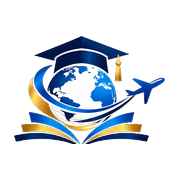
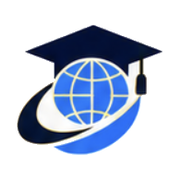
feat: refine responsive brand navbar

diff --git a/src/components/site/Navbar.tsx b/src/components/site/Navbar.tsx
@@ -64,7 +64,7 @@ export function LanguageSelector({ className }: { className?: string }) {
       <button
         ref={triggerRef}
         type="button"
-        className="inline-flex min-h-11 items-center justify-center gap-1.5 rounded-full border border-white/20 bg-white/10 px-3 text-xs font-semibold text-white backdrop-blur-xs transition-colors hover:bg-white/20 focus-visible:outline-2 focus-visible:outline-offset-2 focus-visible:outline-white"
+        className="inline-flex min-h-11 items-center justify-center gap-1.5 rounded-md border border-border bg-white px-3 text-xs font-semibold text-foreground transition-colors hover:bg-muted focus-visible:outline-2 focus-visible:outline-offset-2 focus-visible:outline-primary"
         aria-label={selectorLabels.trigger}
         aria-expanded={expanded}
         aria-controls={`${id}-options`}
@@ -87,7 +87,7 @@ export function LanguageSelector({ className }: { className?: string }) {
           id={`${id}-options`}
           role="group"
           aria-label={selectorLabels.group}
-          className="absolute right-0 top-full z-[70] mt-2 grid w-max min-w-36 max-w-[calc(100vw-1rem)] gap-1 rounded-xl border border-white/15 bg-navy p-1.5 text-sm shadow-xl"
+          className="absolute right-0 top-full z-[70] mt-2 grid w-max min-w-36 max-w-[calc(100vw-1rem)] gap-1 rounded-xl border border-border bg-white p-1.5 text-sm shadow-xl"
         >
           {languages.map(({ locale: target, name }, index) => (
             <button
@@ -114,8 +114,8 @@ export function LanguageSelector({ className }: { className?: string }) {
                 }
               }}
               className={cn(
-                "flex min-h-11 items-center rounded-lg px-3 text-left text-white transition-colors hover:bg-white/10 focus-visible:bg-white/10 focus-visible:outline-none",
-                locale === target && "bg-white/15 font-semibold",
+                "flex min-h-11 items-center rounded-lg px-3 text-left text-foreground transition-colors hover:bg-muted focus-visible:bg-muted focus-visible:outline-none",
+                locale === target && "bg-primary/10 font-semibold text-primary",
               )}
               aria-current={locale === target ? "true" : undefined}
             >
@@ -128,31 +128,84 @@ export function LanguageSelector({ className }: { className?: string }) {
   );
 }
 
-export function Logo({ compact = false }: { compact?: boolean }) {
+/** Only allow the services tagline to wrap after a "|" separator, never inside a service name. */
+const taglineWithSeparatorBreaks = brand.servicesTagline
+  .split(" | ")
+  .map((service) => service.replaceAll(" ", "\u00A0"))
+  .join("\u00A0| ");
+
+export function Logo({
+  onDark = false,
+}: {
+  /** Light wordmark and a white badge behind the symbol for navy surfaces. */
+  onDark?: boolean;
+}) {
+  if (!onDark) {
+    return (
+      <Link
+        to="/"
+        data-brand-lockup
+        className="flex w-fit min-w-0 shrink items-center gap-1.5 sm:gap-2"
+        aria-label={`${brand.name} home`}
+      >
+        <img
+          data-brand-symbol
+          src={brand.markImage}
+          alt=""
+          width={brand.markWidth}
+          height={brand.markHeight}
+          className="h-9 w-auto shrink-0 object-contain sm:h-10 md:h-11"
+          loading="eager"
+        />
+        <span data-brand-wordmark className="flex min-w-0 flex-col">
+          <span className="font-display text-[15px]/none font-bold tracking-tight text-foreground sm:text-base/none md:text-lg/none">
+            {brand.shortName}
+          </span>
+          <span className="mt-[3px] font-display text-[9px]/none font-semibold tracking-[0.3em] text-primary uppercase md:text-[10px]/none">
+            Global
+          </span>
+          <span
+            lang="en"
+            data-brand-tagline
+            className="mt-[3px] text-[9px]/[1.15] font-medium text-muted-foreground min-[360px]:text-[9.5px]/none md:text-[10px]/none"
+          >
+            {taglineWithSeparatorBreaks}
+          </span>
+        </span>
+      </Link>
+    );
+  }
+
   return (
     <Link
       to="/"
-      className="flex shrink-0 items-center gap-2.5 sm:gap-3"
+      data-brand-lockup
+      className="flex w-fit min-w-0 flex-col items-center text-center"
       aria-label={`${brand.name} home`}
     >
-      <img
-        src="/icon-88.png"
-        alt=""
-        width={compact ? 36 : 44}
-        height={compact ? 36 : 44}
-        className="h-10 w-auto max-h-10 rounded-sm object-contain sm:h-11 sm:max-h-11"
-        loading="eager"
-      />
-      {!compact && (
-        <div className="flex flex-col leading-none">
-          <span className="font-display text-[15px] font-bold tracking-tight text-white sm:text-base">
-            {brand.shortName}
-          </span>
-          <span className="font-display text-[9.5px] font-semibold tracking-[0.22em] uppercase text-sky-contrast sm:text-[10px]">
-            Global
-          </span>
-        </div>
-      )}
+      <span className="mb-1.5 flex shrink-0 items-center justify-center rounded-xl bg-white p-1.5 shadow-sm">
+        <img
+          src={brand.markImage}
+          alt=""
+          width={brand.markWidth}
+          height={brand.markHeight}
+          className="h-12 w-auto object-contain sm:h-14"
+          loading="eager"
+        />
+      </span>
+      <span className="mt-0.5 font-display text-xl/none font-bold tracking-tight text-white">
+        {brand.shortName}
+      </span>
+      <span className="mt-[3px] pl-[0.3em] font-display text-[11px]/none font-semibold tracking-[0.3em] text-sky-contrast uppercase">
+        Global
+      </span>
+      <span
+        lang="en"
+        data-brand-tagline
+        className="mt-1 text-xs leading-snug font-medium text-balance text-white/85"
+      >
+        {taglineWithSeparatorBreaks}
+      </span>
     </Link>
   );
 }
@@ -258,34 +311,23 @@ export function Navbar() {
   ];
 
   return (
-    <header className="sticky top-0 z-50 relative border-b border-white/15 bg-navy/95 text-white backdrop-blur supports-[backdrop-filter]:bg-navy/90">
-      {/* Visible Full Logo Artwork Background Watermark — clean transparent artwork, zero checkerboard */}
-      <div
-        aria-hidden="true"
-        className="pointer-events-none absolute inset-0 select-none overflow-hidden"
-      >
-        <div className="absolute inset-0 bg-gradient-to-r from-navy via-navy/95 to-navy/85" />
-        <img
-          src="/logo-watermark-white.webp"
-          alt=""
-          className="absolute -top-3 right-14 h-22 w-auto max-w-none object-contain opacity-12 sm:right-1/4 sm:-top-5 sm:h-26 sm:opacity-14 lg:right-1/3 lg:-top-6 lg:h-28 lg:opacity-15"
-        />
-      </div>
-
-      <div className="container-site relative z-10 flex h-16 items-center justify-between gap-3 lg:gap-4">
+    <header className="sticky top-0 z-50 relative border-b border-border bg-white text-foreground shadow-xs">
+      <div className="container-site relative z-10 flex h-16 items-center justify-between md:h-18 gap-3 lg:gap-4">
         <Logo />
 
         {/* Desktop Navigation */}
         <nav
-          className="hidden items-center gap-1 xl:flex xl:gap-2"
+          className="hidden shrink-0 items-center gap-1 xl:flex"
           aria-label={common.nav.mainNavigationLabel}
         >
           {desktopNavItems.map((item) => (
             <Link
               key={item.to}
               to={item.to}
-              className="rounded-md px-2.5 py-1.5 text-[13px] font-medium text-white/80 transition-colors hover:text-white xl:px-3 xl:text-sm"
-              activeProps={{ className: "text-white font-semibold bg-white/15 shadow-xs" }}
+              className="rounded-md px-2.5 py-1.5 text-[13px] font-medium text-foreground transition-colors hover:text-primary focus-visible:outline-primary xl:text-sm"
+              activeProps={{
+                className: "bg-primary !text-primary-foreground font-semibold shadow-xs",
+              }}
             >
               {item.label}
             </Link>
@@ -293,22 +335,22 @@ export function Navbar() {
         </nav>
 
         {/* Desktop Language Selector — provides breathing room for nav items */}
-        <div className="hidden items-center xl:flex">
+        <div className="hidden shrink-0 items-center xl:flex">
           <LanguageSelector />
         </div>
 
         {/* Mobile Header Quick Actions */}
-        <div className="flex items-center gap-2 xl:hidden">
+        <div className="flex shrink-0 items-center gap-2 xl:hidden">
           <LanguageSelector />
           <button
             ref={menuButtonRef}
             type="button"
-            className="grid h-11 w-11 place-items-center rounded-md border border-white/20 bg-white/10 text-white transition-colors hover:bg-white/20 active:bg-white/30"
+            className="grid h-11 w-11 place-items-center rounded-md border border-border bg-white text-foreground transition-colors hover:bg-muted active:bg-muted"
             aria-label={open ? common.mobileDrawer.closeMenu : common.mobileDrawer.openMenu}
             aria-expanded={open}
             onClick={() => setOpen((v) => !v)}
           >
-            {open ? <X className="h-5 w-5 text-white" /> : <Menu className="h-5 w-5 text-white" />}
+            {open ? <X className="h-5 w-5" /> : <Menu className="h-5 w-5" />}
           </button>
         </div>
       </div>
@@ -318,7 +360,7 @@ export function Navbar() {
         <nav
           id="mobile-navigation"
           aria-label={common.mobileDrawer.navigationLabel}
-          className="mobile-drawer-enter relative max-h-[calc(100dvh-4rem)] overscroll-contain overflow-y-auto border-t border-white/15 bg-navy xl:hidden"
+          className="mobile-drawer-enter relative max-h-[calc(100dvh-4rem)] md:max-h-[calc(100dvh-4.5rem)] overscroll-contain overflow-y-auto border-t border-white/15 bg-navy xl:hidden"
         >
           {/* Watermark in Mobile Drawer */}
           <div

diff --git a/src/data/site.ts b/src/data/site.ts
@@ -36,11 +36,16 @@ export const brand = {
   /** Fallback single-letter mark if image logo cannot be rendered */
   mark: "F",
   tagline: "Your Future • Our Priority",
-  logoImage: "/logo-full-transparent.png",
+  /** Services line from the official logo lockup, rendered as text beside the symbol. */
+  servicesTagline: "Education | Real Estate | Digital Services",
+  /** Cap-and-globe symbol cropped from the official logo; the wordmark is rendered as text. */
+  markImage: "/frankedu-mark.webp",
+  /** 1200×630 social preview card used for Open Graph and Twitter. */
+  ogImage: "/og-image.png",
   faviconPath: "/favicon.ico",
   appleTouchIconPath: "/apple-touch-icon.png",
-  logoWidth: 1458,
-  logoHeight: 1062,
+  markWidth: 158,
+  markHeight: 141,
 };
 
 export const images = {

diff --git a/src/routes/__root.tsx b/src/routes/__root.tsx
@@ -102,7 +102,10 @@ export const Route = createRootRouteWithContext<{ queryClient: QueryClient }>()(
       { name: "author", content: brand.name },
       { property: "og:type", content: "website" },
       { property: "og:site_name", content: brand.name },
-      { property: "og:image", content: absoluteUrl(brand.logoImage) },
+      { property: "og:image", content: absoluteUrl(brand.ogImage) },
+      { property: "og:image:width", content: "1200" },
+      { property: "og:image:height", content: "630" },
+      { property: "og:image:alt", content: brand.name },
       { name: "twitter:card", content: "summary_large_image" },
     ],
     links: [

diff --git a/src/lib/seo.ts b/src/lib/seo.ts
@@ -25,7 +25,7 @@ export function pageMeta(title: string, description: string, options: PageMetaOp
       ...(canonical ? [{ property: "og:url", content: canonical }] : []),
       { name: "twitter:title", content: full },
       { name: "twitter:description", content: description },
-      { name: "twitter:image", content: absoluteUrl(brand.logoImage) },
+      { name: "twitter:image", content: absoluteUrl(brand.ogImage) },
       ...(options.noindex ? [{ name: "robots", content: "noindex, follow" }] : []),
     ],
     links: canonical ? [{ rel: "canonical", href: canonical }] : [],

diff --git a/src/components/site/Footer.tsx b/src/components/site/Footer.tsx
@@ -58,7 +58,7 @@ export function Footer() {
 
       <div className="container-site relative z-10 grid gap-8 py-14 sm:grid-cols-2 md:gap-10 lg:grid-cols-3 xl:grid-cols-[1.4fr_repeat(4,1fr)]">
         <div className="space-y-4">
-          <Logo />
+          <Logo onDark />
           <p className="max-w-xs text-sm leading-relaxed text-navy-muted sm:text-[15px]">
             {common.footer.tagline}
           </p>

diff --git a/ROADMAP.md b/ROADMAP.md
@@ -27,7 +27,7 @@
 
 - **Status**: `DONE`
 - **Scope**:
-  - Replace the current placeholder single-letter "F" mark with the official FranklyEdu Global logo (`public/Logo.JPG`) across Navbar, Footer, and Favicon/Meta.
+  - Replace the current placeholder single-letter "F" mark with the official FranklyEdu Global logo (`public/Logo.JPG`) across Navbar, Footer, and Favicon/Meta. _(The original `Logo.JPG` was later superseded by the redesigned FrankEdu Global logo, with its cap-and-globe symbol served as `public/frankedu-mark.{png,webp}` beside a live text wordmark, plus derived favicon, app icon, Open Graph card, and watermark assets.)_
   - Integrate Frank's new hero/background image (`src/assets/background-photo.jpg`), refining the gradient overlay and color blending to match the Framer visual direction.
   - Centralize all brand assets, logo dimensions, and image metadata in [`src/data/site.ts`](file:///Users/abrahamogbu/Developer/Frank-Edu/src/data/site.ts) so they remain easy to update from a single source.
   - Ensure dark navy (`#071B2F`), slate blue (`#4E8FBD`), and warm cream (`#F5F1E8`) token consistency in [`src/styles.css`](file:///Users/abrahamogbu/Developer/Frank-Edu/src/styles.css).
